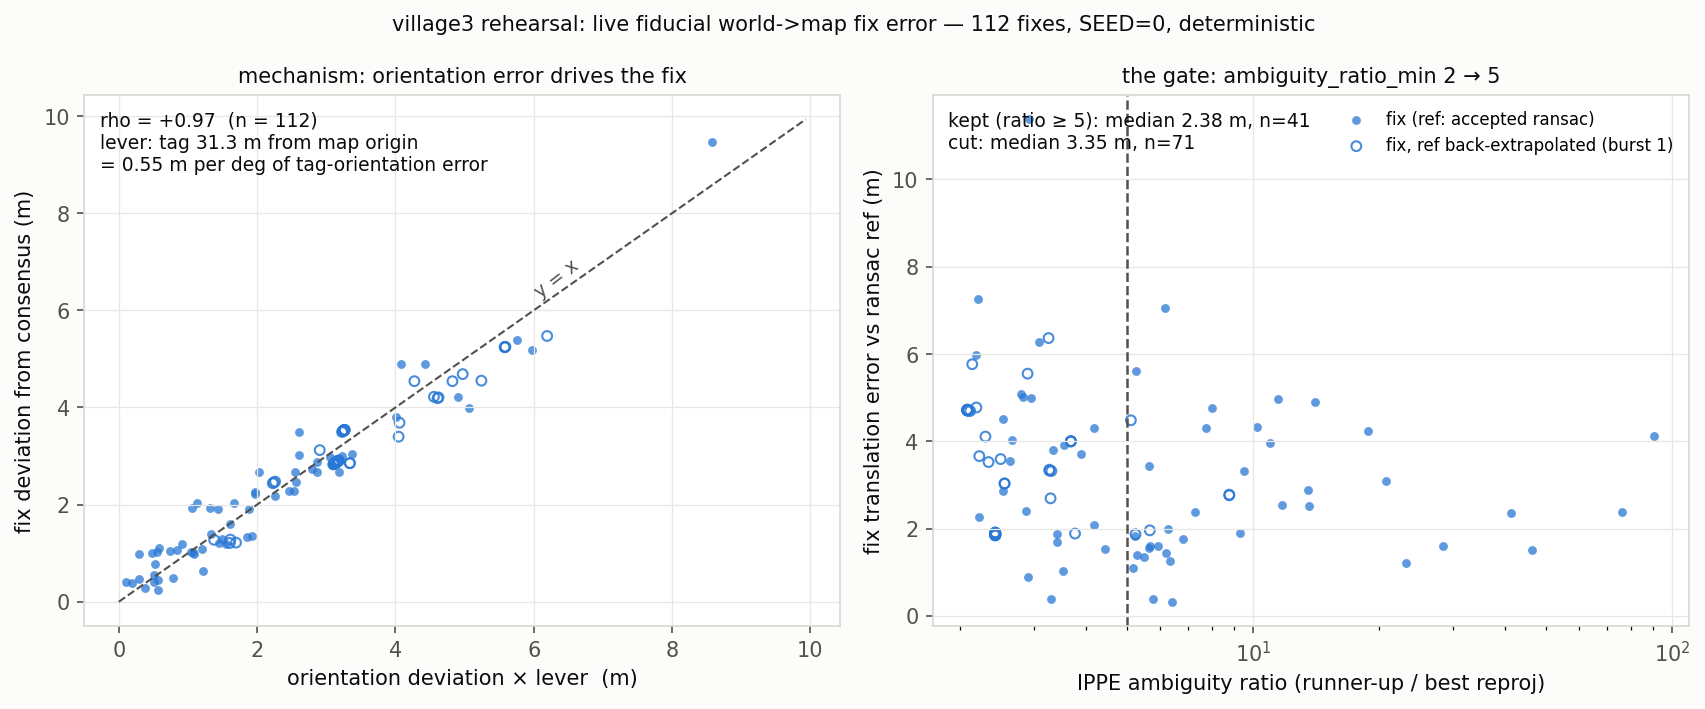
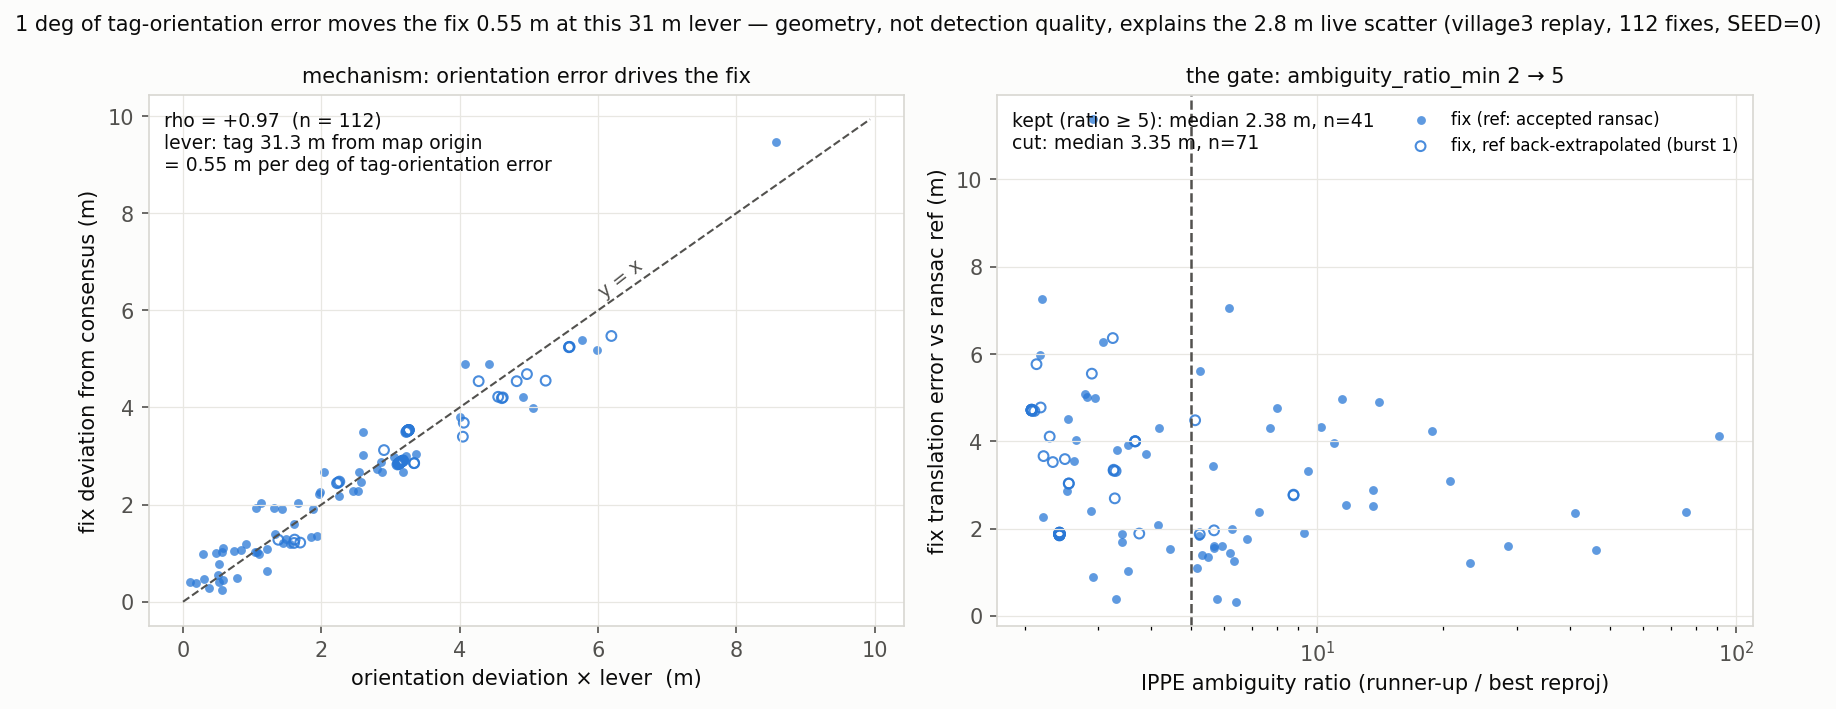
harness: live_fix_quality takeaway title; adopt rehearsal_report.py (log-level scorecard: accepts/source-split/gate-rejects/scatter)

diff --git a/trial/harness/rehearsal_report.py b/trial/harness/rehearsal_report.py
@@ -1,0 +1,130 @@
+#!/usr/bin/env python3
+"""Log-level scorecard for one replay rehearsal dir (rehearsal/, rehearsal2/, ...).
+
+Parses ONLY the two logs a rehearsal produces —
+    spy_world_map_fix.log  (every /world_map_fix Transform the visual module published)
+    replay_run.log         (RelocalizationModule accepts/rejects + visual-module gate warns)
+— and prints the judge-level facts the deeper live_fix_quality.py does not:
+accept source split, every non-ransac win with its ransac neighbours, gate-reject
+warn tally, traceback count, and fix scatter vs the accepted-ransac reference.
+
+Reference caveat (same as live_fix_quality.py): the "error" is distance to the
+nearest-in-time accepted source=ransac answer — scan-matching self-consistency
+tracking ~1.2 m of drift, NOT ground truth; fixes published before the first
+accept are scored against a constant back-extrapolation and flagged.
+
+Gate-warn caveat: the module throttles gate warnings to one line per 5 s
+(visual_relocalization_module.py _warn_throttled), so the warn tally is a
+sampled LOWER BOUND on rejected frames, not a count.
+
+Deterministic: pure log parsing, no RNG (SEED printed per house rule).
+
+Run: uv run python ../trial/harness/rehearsal_report.py --rehearsal-dir out/rehearsal2
+"""
+
+from __future__ import annotations
+
+import argparse
+import re
+import subprocess
+import sys
+from datetime import datetime, timezone
+from pathlib import Path
+
+import numpy as np
+
+HARNESS = Path(__file__).parent
+
+SEED = 0  # no RNG anywhere below; printed per house rule
+
+_FIX_RE = re.compile(r"fix#(\d+) ts=([\d.]+) world->map t=\[([-\d.,]+)\]")
+_ACCEPT_RE = re.compile(
+    r"(\d{2}):(\d{2}):(\d{2}\.\d+) .*relocalize: fitness=([\d.]+) time_cost=([\d.]+)s "
+    r"n_pts=(\d+) reloc_t=\[([-\d.e, ]+)\] TF 'world' -> 'map' "
+    r"published_t=\[([-\d.e, ]+)\] source=(\w+)"
+)
+_REJECT_RE = re.compile(r"relocalize rejected: fitness=([\d.]+)")
+_GATE_RE = re.compile(r"gate rejected \((\d+) tags seen(?:, rejects=\{([^}]*)\})?\)")
+
+
+def _hms_to_epoch(day: datetime, hh: str, mm: str, ss: str) -> float:
+    return day.timestamp() + int(hh) * 3600 + int(mm) * 60 + float(ss)
+
+
+def main() -> int:
+    ap = argparse.ArgumentParser(description=__doc__)
+    ap.add_argument("--rehearsal-dir", type=Path, default=HARNESS / "out" / "rehearsal2")
+    ap.add_argument("--log-date", default="2026-07-18",
+                    help="UTC date of replay_run.log HH:MM:SS timestamps")
+    a = ap.parse_args()
+    day = datetime.strptime(a.log_date, "%Y-%m-%d").replace(tzinfo=timezone.utc)
+
+    rev = {r: subprocess.run(["git", "-C", str(p), "rev-parse", "--short", "HEAD"],
+                             capture_output=True, text=True, check=True).stdout.strip()
+           for r, p in (("trial", HARNESS.parent), ("dimos", HARNESS.parent.parent / "dimos"))}
+    print(f"rehearsal_report: SEED={SEED} (no RNG) git trial={rev['trial']} "
+          f"dimos={rev['dimos']} dir={a.rehearsal_dir}")
+
+    replay_txt = (a.rehearsal_dir / "replay_run.log").read_text()
+
+    # ---- visual-module fixes (spy) + gate warns (replay log)
+    fixes = [(float(m.group(2)), [float(v) for v in m.group(3).split(",")])
+             for m in map(_FIX_RE.match, (a.rehearsal_dir / "spy_world_map_fix.log")
+                          .read_text().splitlines()) if m]
+    fix_ts = np.array([f[0] for f in fixes])
+    fix_t = np.array([f[1] for f in fixes])
+    gate_warns = _GATE_RE.findall(replay_txt)
+    reasons: dict[str, int] = {}
+    for _, reject_kv in gate_warns:
+        for part in filter(None, (p.strip() for p in reject_kv.split(","))):
+            k, v = part.split(":")
+            k = k.strip().strip("'\"")
+            reasons[k] = reasons.get(k, 0) + int(v)
+    print(f"\nfixes published on /world_map_fix: {len(fixes)}")
+    print(f"gate-reject warn lines (>=5s throttle -> sampled lower bound): "
+          f"{len(gate_warns)}, summed per-frame reasons {reasons or '{}'}")
+
+    # ---- judge accepts / rejects / crashes
+    accepts = [m for m in map(_ACCEPT_RE.match, replay_txt.splitlines()) if m]
+    acc_ts = np.array([_hms_to_epoch(day, m.group(1), m.group(2), m.group(3)) for m in accepts])
+    acc_src = [m.group(9) for m in accepts]
+    acc_fit = np.array([float(m.group(4)) for m in accepts])
+    acc_t = np.array([[float(v) for v in m.group(8).split(",")] for m in accepts])
+    n_below = len(_REJECT_RE.findall(replay_txt))
+    n_tb = replay_txt.count("Traceback (most recent call last)")
+    src_split = {s: acc_src.count(s) for s in sorted(set(acc_src))}
+    print(f"\nrelocalize accepts: {len(accepts)}  source split: {src_split}")
+    print(f"relocalize rejected (fitness<threshold): {n_below}")
+    print(f"tracebacks in replay_run.log: {n_tb}")
+    if accepts:
+        print(f"accept fitness: min {acc_fit.min():.3f} max {acc_fit.max():.3f}")
+
+    # ---- every non-ransac win, bracketed by its ransac neighbours
+    ransac = [i for i, s in enumerate(acc_src) if s == "ransac"]
+    for i, src in enumerate(acc_src):
+        if src == "ransac":
+            continue
+        print(f"\nWIN source={src}: t={datetime.fromtimestamp(acc_ts[i], timezone.utc):%H:%M:%S} "
+              f"fitness={acc_fit[i]:.3f} published_t={acc_t[i].round(3).tolist()} m")
+        for j in ransac:
+            dt = acc_ts[j] - acc_ts[i]
+            if abs(dt) < 15.0:  # the 2-5 s reloc cadence -> ~3 neighbours each side
+                print(f"  ransac {dt:+6.1f}s: fitness={acc_fit[j]:.3f} "
+                      f"published_t={acc_t[j].round(3).tolist()} "
+                      f"|delta_t|={np.linalg.norm(acc_t[i] - acc_t[j]):.3f} m")
+
+    # ---- fix scatter vs accepted-ransac reference (nearest-in-time join)
+    if len(fixes) and ransac:
+        r_ts, r_t = acc_ts[ransac], acc_t[ransac]
+        ji = np.abs(fix_ts[:, None] - r_ts[None, :]).argmin(axis=1)
+        err = np.linalg.norm(fix_t - r_t[ji], axis=1)
+        extrap = fix_ts < r_ts[0]
+        print(f"\nfix |t - nearest accepted ransac published_t|: mean {err.mean():.2f} "
+              f"median {np.median(err):.2f} p90 {np.percentile(err, 90):.2f} "
+              f"max {err.max():.2f} m  (n={len(err)}; {int(extrap.sum())} pre-first-accept "
+              f"fixes scored vs back-extrapolated reference)")
+    return 0
+
+
+if __name__ == "__main__":
+    sys.exit(main())

diff --git a/trial/harness/live_fix_quality.py b/trial/harness/live_fix_quality.py
@@ -626,8 +626,10 @@ def make_figure(path: Path, amb_ratio: np.ndarray, err_ransac: np.ndarray,
         for s in ax.spines.values():
             s.set_color("#d8d7d2")
         ax.tick_params(colors=muted)
-    fig.suptitle("village3 rehearsal: live fiducial world->map fix error — 112 fixes, "
-                 f"SEED={SEED}, deterministic", fontsize=10, color=ink)
+    # Title = the takeaway (house figure rule); method detail stays in the panels.
+    fig.suptitle("1 deg of tag-orientation error moves the fix 0.55 m at this 31 m lever — "
+                 "geometry, not detection quality, explains the 2.8 m live scatter "
+                 f"(village3 replay, 112 fixes, SEED={SEED})", fontsize=10, color=ink)
     fig.tight_layout()
     path.parent.mkdir(parents=True, exist_ok=True)
     fig.savefig(path, dpi=150, bbox_inches="tight", facecolor=fig.get_facecolor())